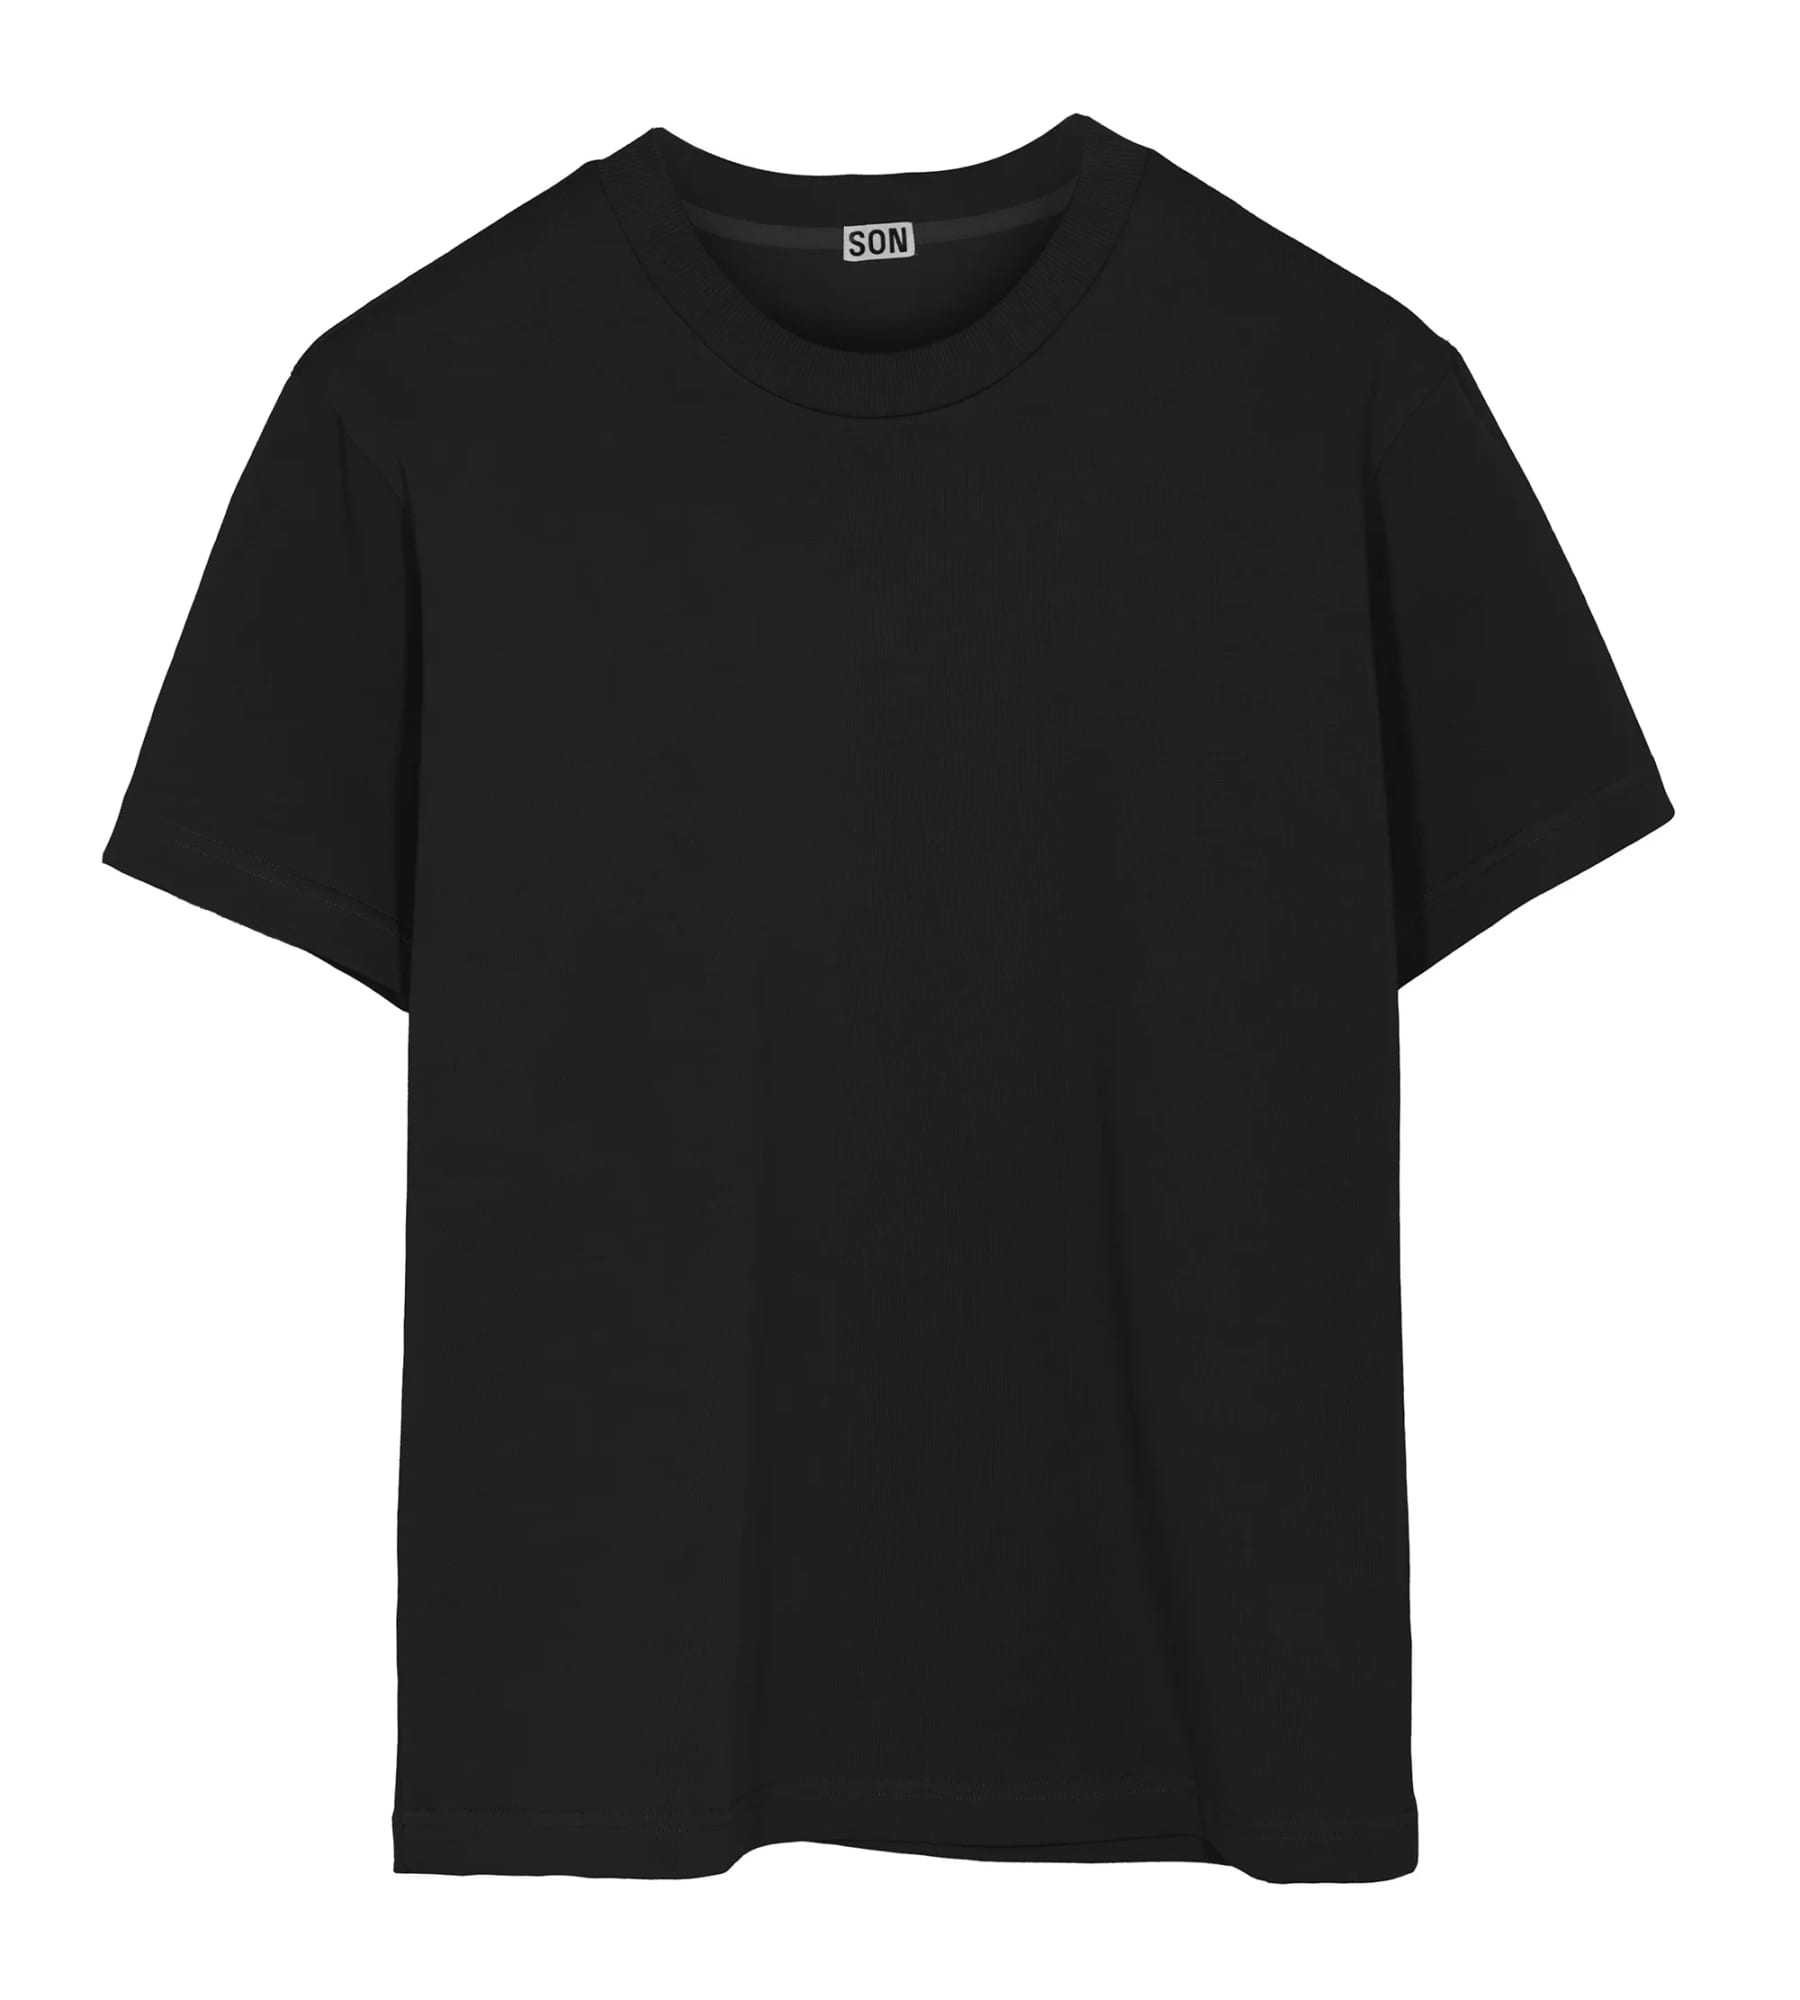
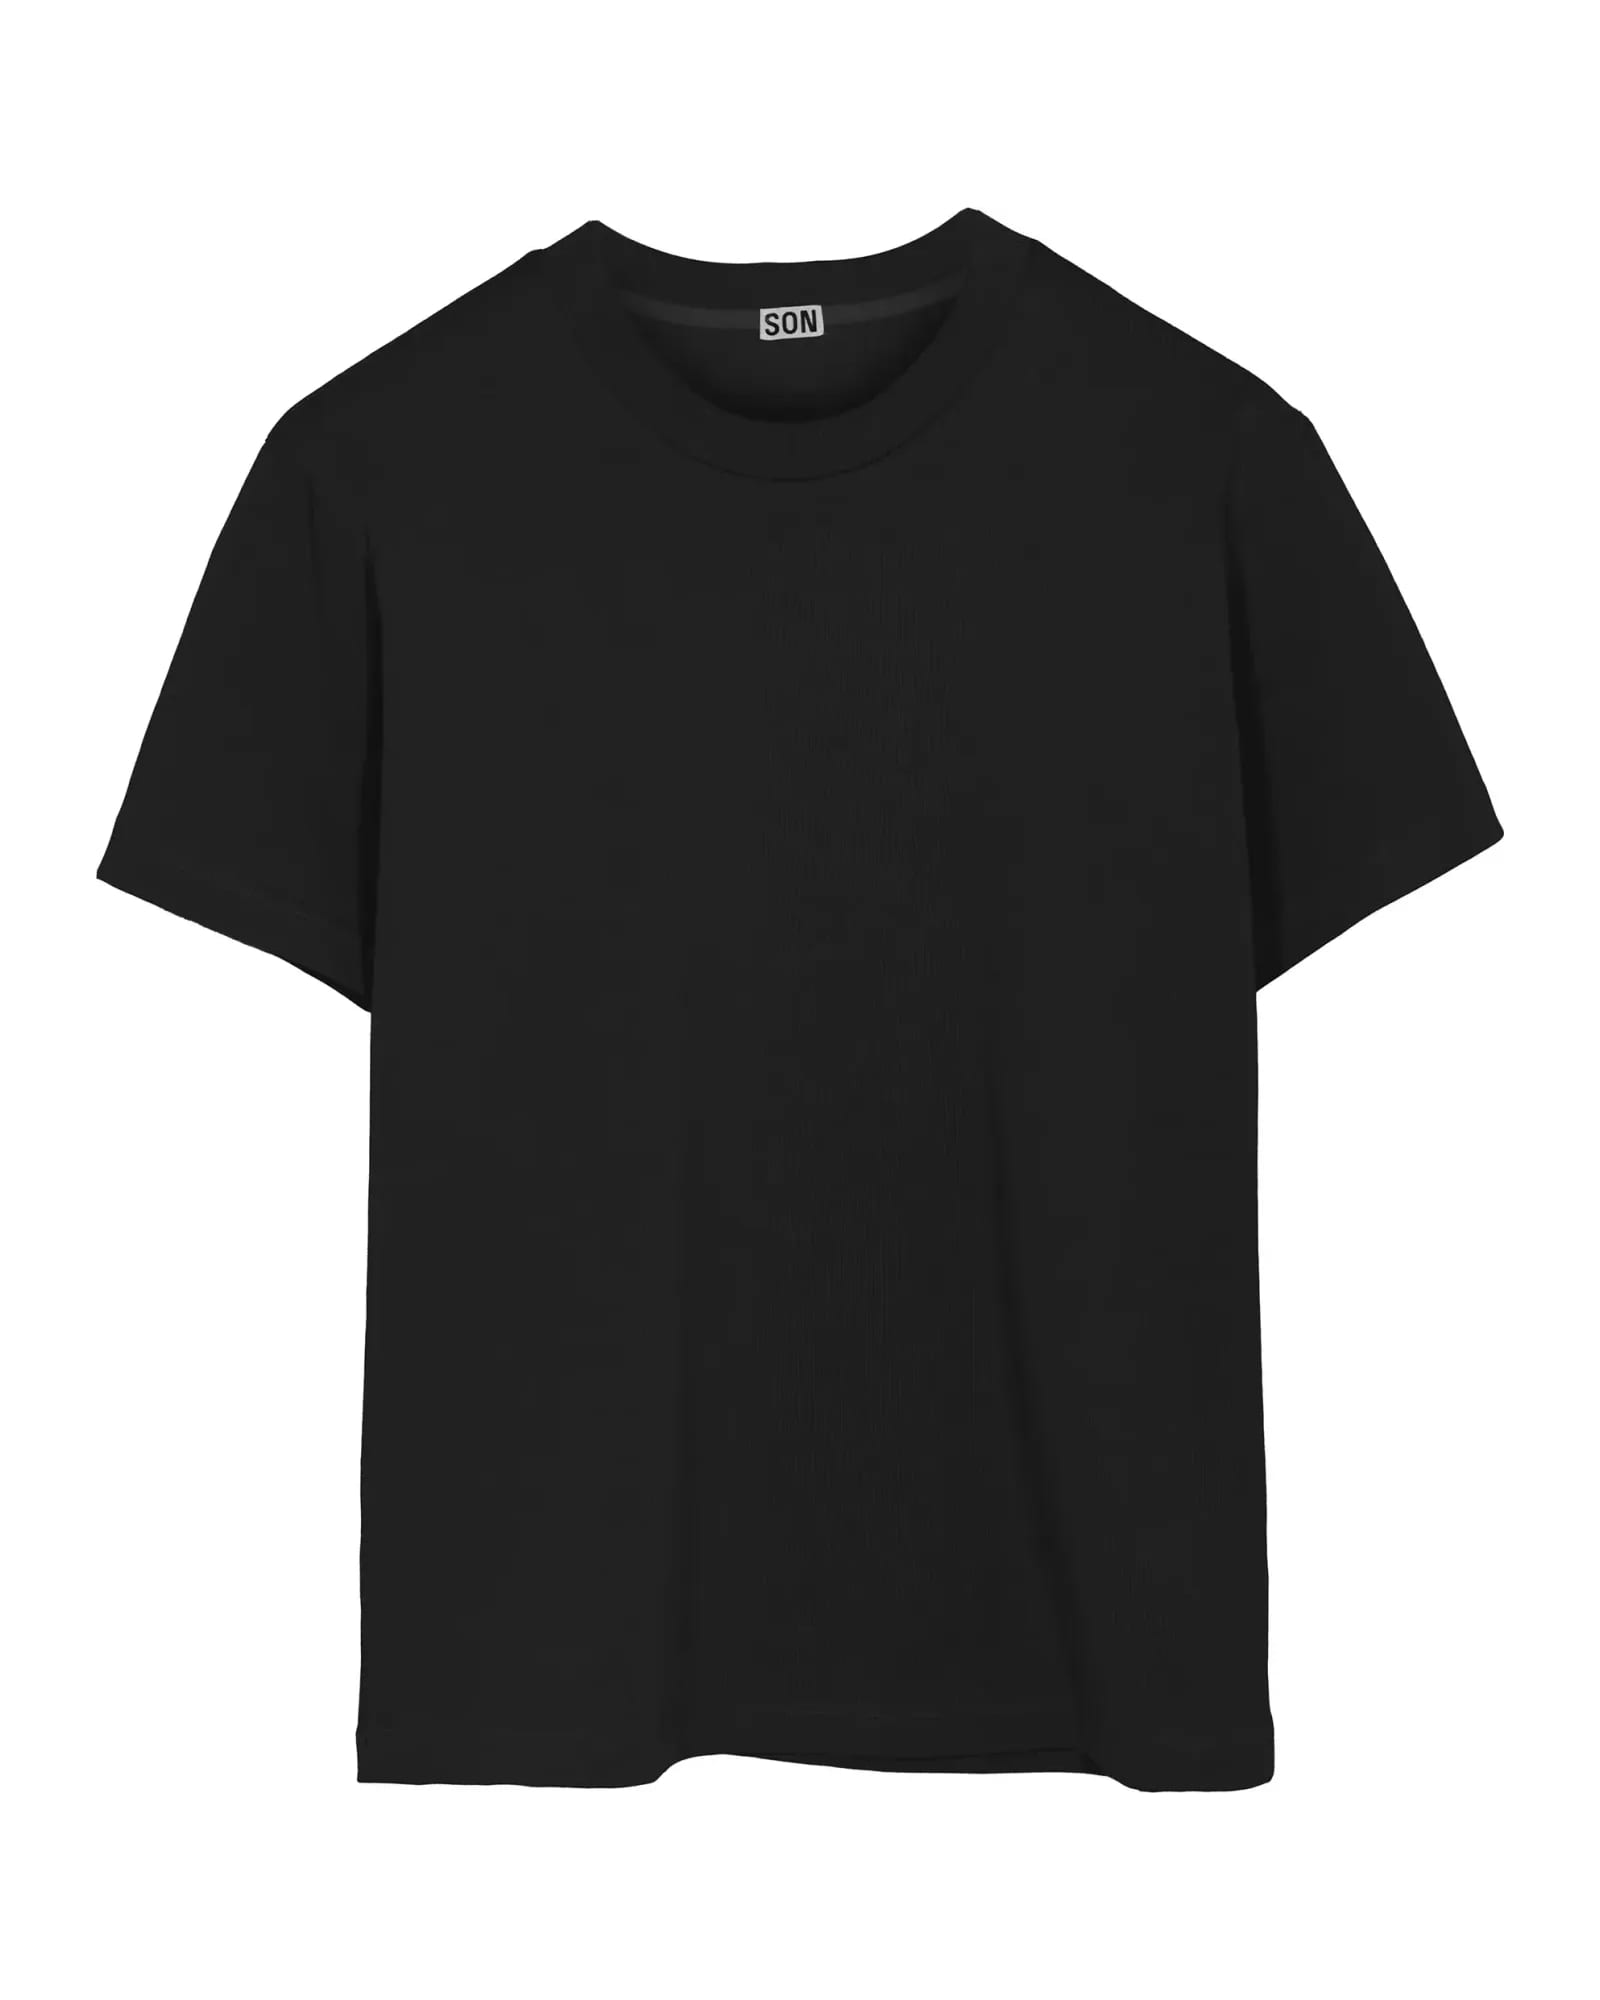
Save every product photo at one size, trimmed and centered
images:sync now outputs 1600x2000 (4:5) JPEGs. White-background photos are
trimmed to the product and centered with an even margin; lifestyle and
detail photos fill the frame. The frame shape is a single design token
(aspect-product) shared with photo-format.ts.

Claude-Session: https://claude.ai/code/session_017BvmUYkndKvfrE6GTZPgEH

diff --git a/scripts/images-sync.ts b/scripts/images-sync.ts
@@ -4,8 +4,11 @@
  * Processes product photos from photos/<product-slug>/ and records them in
  * content/images.manifest.json (commit that file).
  *
- *  - Auto-rotates, resizes to max 2000 px on the long edge, converts to JPEG
- *    on a white background, and creates a tiny blur placeholder.
+ *  - Every photo comes out the same size (PHOTO_SIZE, 4:5) as a JPEG on
+ *    white. White-background photos are trimmed to the product and centered
+ *    with an even margin; lifestyle/detail photos fill the frame instead
+ *    (see src/lib/catalog/photo-format.ts). Also creates a tiny blur
+ *    placeholder.
  *  - Unchanged photos are skipped (content hash), so re-running is cheap.
  *  - Destination: Cloudinary when CLOUDINARY_URL is set (in .env.local),
  *    otherwise public/catalog/<slug>/ (committed with the site).
@@ -18,21 +21,22 @@
 import { createHash } from "node:crypto";
 import { existsSync, mkdirSync, readdirSync, readFileSync, rmSync, writeFileSync } from "node:fs";
 import path from "node:path";
-import sharp from "sharp";
+import sharp, { type Sharp } from "sharp";
 import {
   imageManifestSchema,
   type ImageManifest,
   type ManifestImage,
 } from "@/lib/catalog/authoring-schema";
 import { loadCatalogFromDisk, MANIFEST_FILE } from "@/lib/catalog/load-content";
+import { FULL_BLEED_NAMES, PHOTO_MARGIN, PHOTO_SIZE } from "@/lib/catalog/photo-format";
 
 const ROOT = process.cwd();
 const PHOTOS_DIR = path.join(ROOT, "photos");
 const LOCAL_OUT_DIR = path.join(ROOT, "public", "catalog");
 const SUPPORTED = new Set([".jpg", ".jpeg", ".png", ".webp", ".avif", ".tif", ".tiff"]);
-const MAX_EDGE = 2000;
 // Bump when processing settings change so every photo is re-processed.
-const PROCESSING_VERSION = "v1";
+const PROCESSING_VERSION = `v2-${PHOTO_SIZE.width}x${PHOTO_SIZE.height}-${PHOTO_MARGIN}`;
+const WHITE = { r: 255, g: 255, b: 255, alpha: 1 };
 
 if (existsSync(path.join(ROOT, ".env.local"))) process.loadEnvFile(path.join(ROOT, ".env.local"));
 const cloudinary = parseCloudinaryUrl(process.env.CLOUDINARY_URL);
@@ -56,11 +60,38 @@ function cleanBaseName(file: string) {
     .replace(/-+/g, "-");
 }
 
-async function processPhoto(buffer: Buffer) {
-  const { data, info } = await sharp(buffer)
-    .rotate()
-    .resize({ width: MAX_EDGE, height: MAX_EDGE, fit: "inside", withoutEnlargement: true })
-    .flatten({ background: "#ffffff" })
+async function processPhoto(buffer: Buffer, fullBleed: boolean) {
+  // Upright and on white first (transparent PNGs from background-removal apps).
+  const upright = await sharp(buffer).rotate().flatten({ background: WHITE }).toBuffer();
+
+  let framed: Sharp;
+  if (fullBleed) {
+    framed = sharp(upright).resize(PHOTO_SIZE.width, PHOTO_SIZE.height, { fit: "cover" });
+  } else {
+    // Cut away the white around the product, then center it with an even margin.
+    const product = await sharp(upright)
+      .trim({ background: WHITE, threshold: 12 })
+      .toBuffer()
+      .catch(() => upright); // an all-white image has nothing to trim
+    const inner = {
+      width: Math.round(PHOTO_SIZE.width * (1 - 2 * PHOTO_MARGIN)),
+      height: Math.round(PHOTO_SIZE.height * (1 - 2 * PHOTO_MARGIN)),
+    };
+    const fitted = await sharp(product)
+      .resize({ ...inner, fit: "inside" })
+      .toBuffer({ resolveWithObject: true });
+    const left = Math.round((PHOTO_SIZE.width - fitted.info.width) / 2);
+    const top = Math.round((PHOTO_SIZE.height - fitted.info.height) / 2);
+    framed = sharp(fitted.data).extend({
+      left,
+      right: PHOTO_SIZE.width - fitted.info.width - left,
+      top,
+      bottom: PHOTO_SIZE.height - fitted.info.height - top,
+      background: WHITE,
+    });
+  }
+
+  const { data, info } = await framed
     .jpeg({ quality: 82, mozjpeg: true })
     .toBuffer({ resolveWithObject: true });
   const blur = await sharp(data).resize(16, 16, { fit: "inside" }).webp({ quality: 40 }).toBuffer();
@@ -163,7 +194,10 @@ async function main() {
         continue;
       }
 
-      const processed = await processPhoto(buffer);
+      const fullBleed = FULL_BLEED_NAMES.some(
+        (name) => base === name || base.startsWith(`${name}-`),
+      );
+      const processed = await processPhoto(buffer, fullBleed);
       let src: string;
       if (cloudinary) {
         src = await uploadToCloudinary(processed.data, `products/${slug}/${base}`);

diff --git a/src/components/product/ProductGallery.tsx b/src/components/product/ProductGallery.tsx
@@ -22,7 +22,7 @@ export function ProductGallery({ images, locale }: { images: ProductImage[]; loc
 
   if (images.length === 0) {
     return (
-      <div className="aspect-[4/5] overflow-hidden rounded-xl border border-line">
+      <div className="aspect-product overflow-hidden rounded-xl border border-line">
         <ImagePlaceholder />
       </div>
     );
@@ -47,7 +47,7 @@ export function ProductGallery({ images, locale }: { images: ProductImage[]; loc
           className="no-scrollbar flex snap-x snap-mandatory overflow-x-auto"
         >
           {images.map((image, i) => (
-            <div key={image.id} className="relative aspect-[4/5] w-full shrink-0 snap-center">
+            <div key={image.id} className="relative aspect-product w-full shrink-0 snap-center">
               <CatalogImage
                 image={image}
                 locale={locale}

diff --git a/src/lib/catalog/photo-format.ts b/src/lib/catalog/photo-format.ts
@@ -1,0 +1,17 @@
+/**
+ * Every product photo is saved by `npm run images:sync` at exactly this size,
+ * so all photos line up in grids and galleries. The frames on the site use
+ * the same shape (`aspect-product` in src/app/globals.css). To change the
+ * shape, update both, then run `npm run images:sync`.
+ */
+export const PHOTO_SIZE = { width: 1600, height: 2000 } as const; // 4:5
+
+/** Empty space kept around the product on white-background photos (share of the frame). */
+export const PHOTO_MARGIN = 0.06;
+
+/**
+ * Photos whose name starts with one of these fill the whole frame (cropped
+ * from the center) instead of being trimmed and centered on white: room
+ * shots and close-ups usually have no white background.
+ */
+export const FULL_BLEED_NAMES = ["lifestyle", "detail"] as const;

diff --git a/src/components/catalog/ProductCard.tsx b/src/components/catalog/ProductCard.tsx
@@ -29,7 +29,7 @@ export function ProductCard({
       href={`/products/${product.slug}`}
       className="group flex h-full flex-col overflow-hidden rounded-xl border border-line bg-surface shadow-xs transition-shadow hover:shadow-md"
     >
-      <div className="relative aspect-[4/5] overflow-hidden bg-surface">
+      <div className="relative aspect-product overflow-hidden bg-surface">
         {image ? (
           <CatalogImage
             image={image}

diff --git a/src/app/globals.css b/src/app/globals.css
@@ -16,6 +16,10 @@
  *   - ink:             body text (charcoal)
  */
 @theme {
+  /* Shape of every product photo frame. Keep in sync with PHOTO_SIZE in
+     src/lib/catalog/photo-format.ts (photos are saved at that size). */
+  --aspect-product: 4 / 5;
+
   /* Raw scales — Flash Electronics International navy & gold */
   --color-navy-50: #f3f5f9;
   --color-navy-100: #e3e8f0;

diff --git a/docs/CATALOG-GUIDE.md b/docs/CATALOG-GUIDE.md
@@ -136,8 +136,19 @@ Then run:
 npm run images:sync
 ```
 
-It resizes photos (max 2000 px), fixes rotation, converts them to JPEG,
-makes a small blurred preview, and updates `content/images.manifest.json`.
+It fixes rotation and saves every photo at the same size (1600 × 2000,
+4:5) as a JPEG on white, so all photos line up on the site:
+
+- **White-background photos** are trimmed to the product and centered with
+  the same margin, so it doesn't matter how much empty space you left around
+  the product.
+- **`lifestyle-*` and `detail-*` photos** fill the whole frame instead
+  (cropped from the center), since room shots and close-ups usually have no
+  white background.
+
+It also makes a small blurred preview and updates
+`content/images.manifest.json`. The size and margin are set in
+`src/lib/catalog/photo-format.ts`.
 Photos that haven't changed are skipped. Deleting a photo from the folder
 and re-running removes it from the site. If a file name doesn't match any
 option, `content:check` warns you.
@@ -148,8 +159,10 @@ committed with the site, which is fine to start with. Switch to Cloudinary
 before the catalog gets large, then re-run `images:sync`. Commit
 `content/images.manifest.json` either way.
 
-**Photo tips:** use the same background and lighting for every product,
-portrait 4:5 framing, at least 2000 px on the long side, one front photo per
+**Photo tips:** use a pure white background (or clean it up in an app like
+Photoroom) and the same lighting for every product, at least 2000 px on the
+long side, JPEG or PNG (not iPhone HEIC: set Camera → Formats → Most
+Compatible), one front photo per
 color, plus detail and packaging shots.
 
 ## Categories and brands
